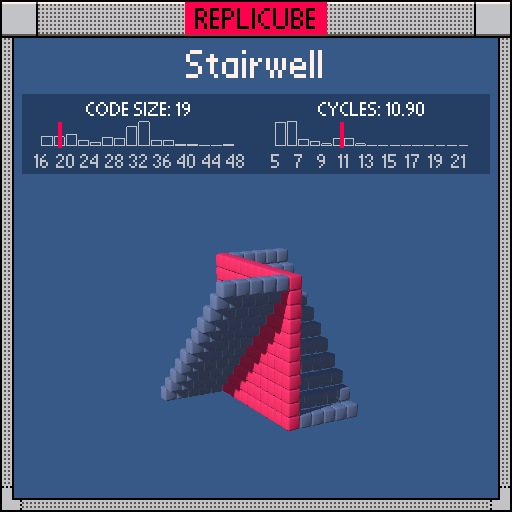
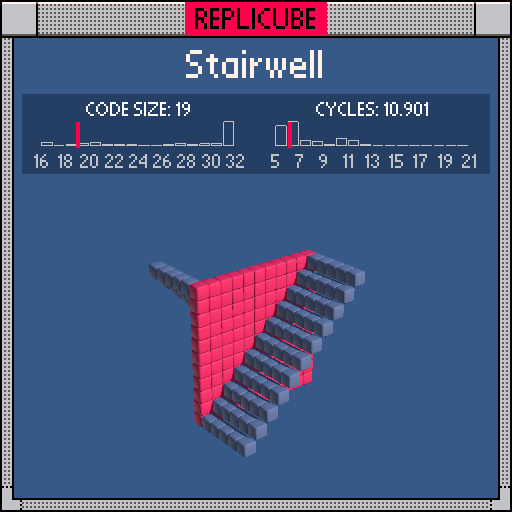
Updated stairwell

diff --git a/022-stairwell/README.md b/022-stairwell/README.md
@@ -2,6 +2,14 @@
 
 | Code size | Cycles / voxel |
 | --------- | -------------- |
-| 19        | 10.90          |
+| 19        | 10.901         |
 
 ![](stairwell-0.png)
+
+# stairwell-1.lua
+
+| Code size | Cycles / voxel |
+| --------- | -------------- |
+| 30        | 6.314          |
+
+![](stairwell-1.png)
